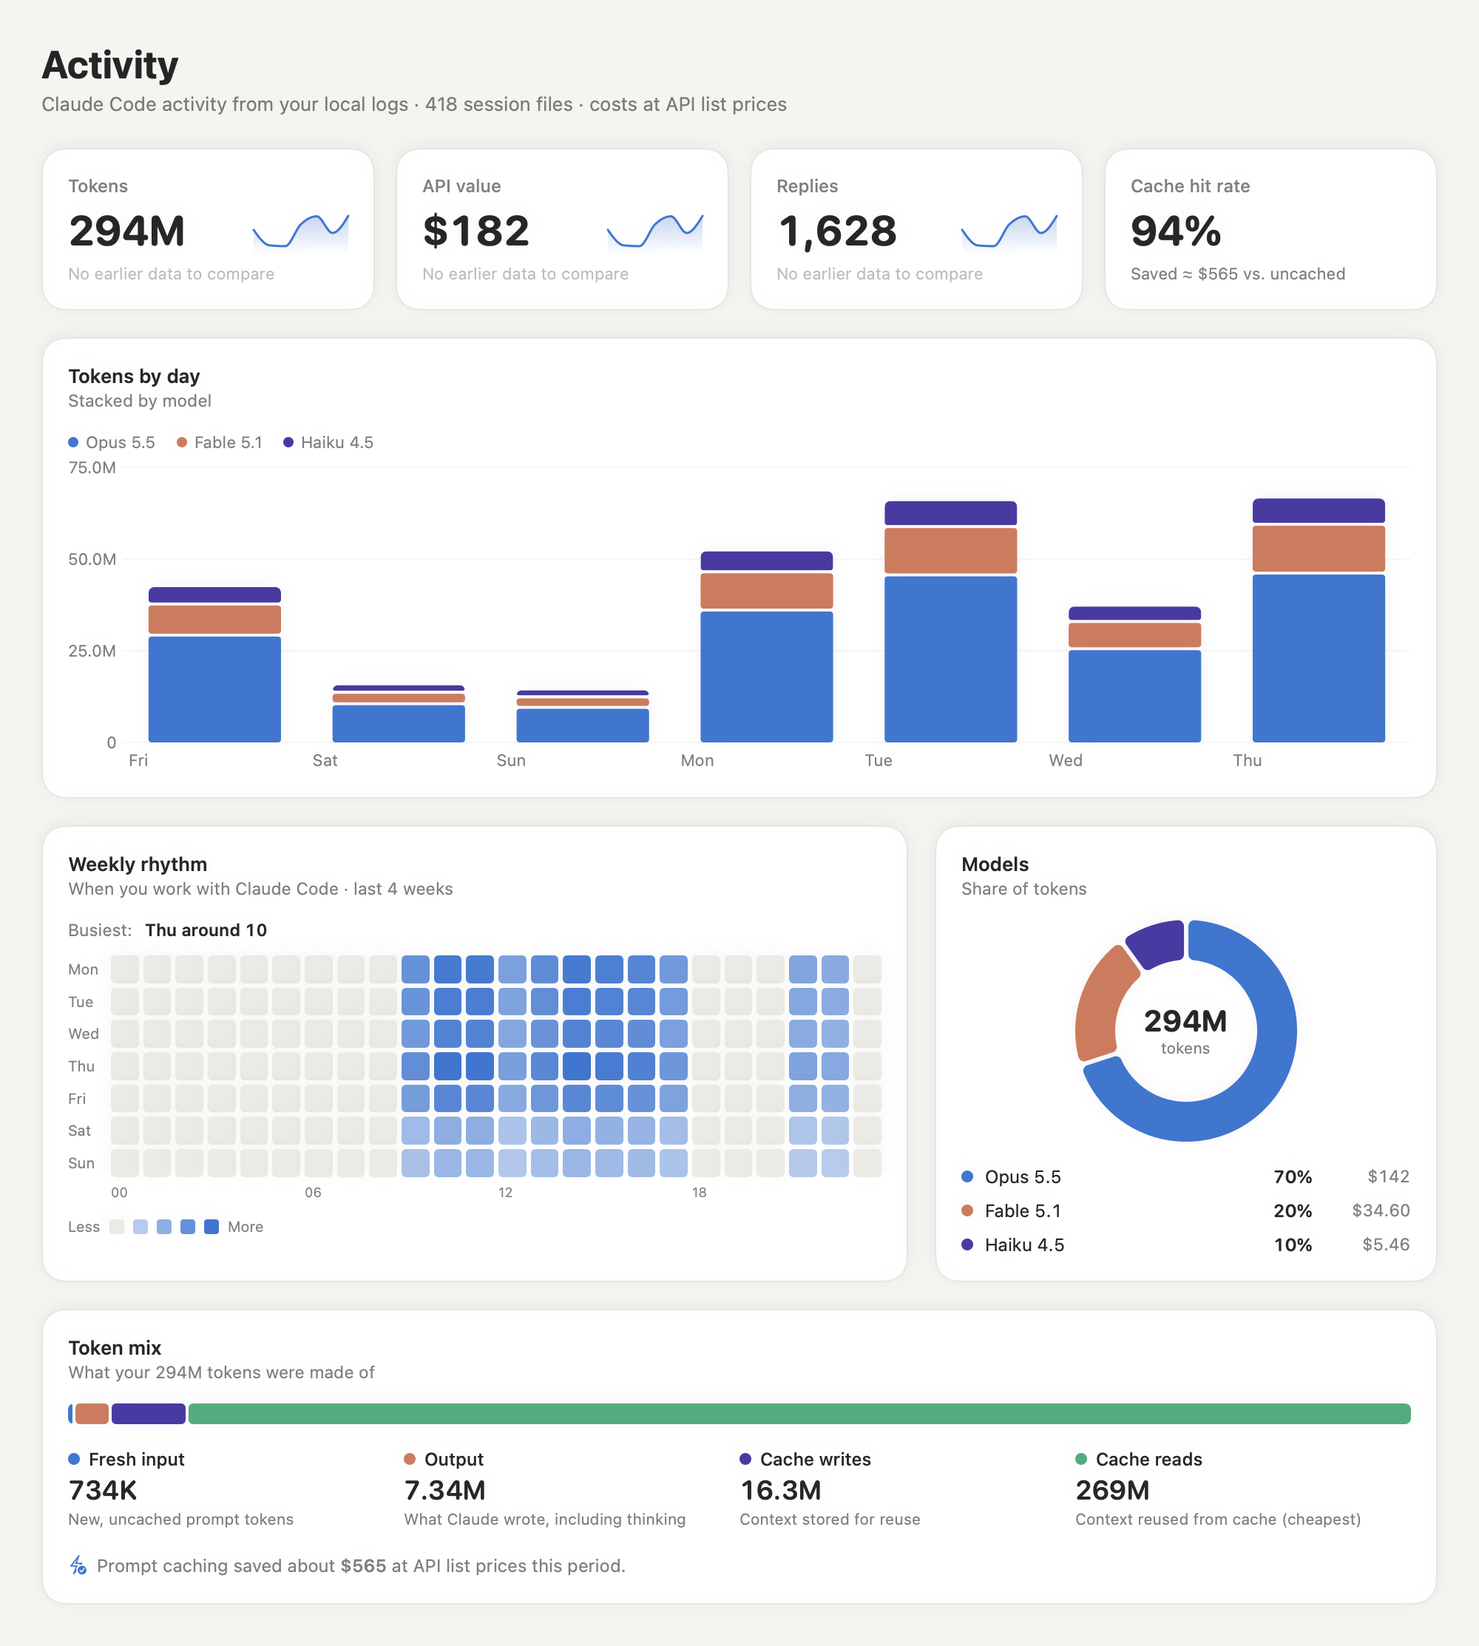
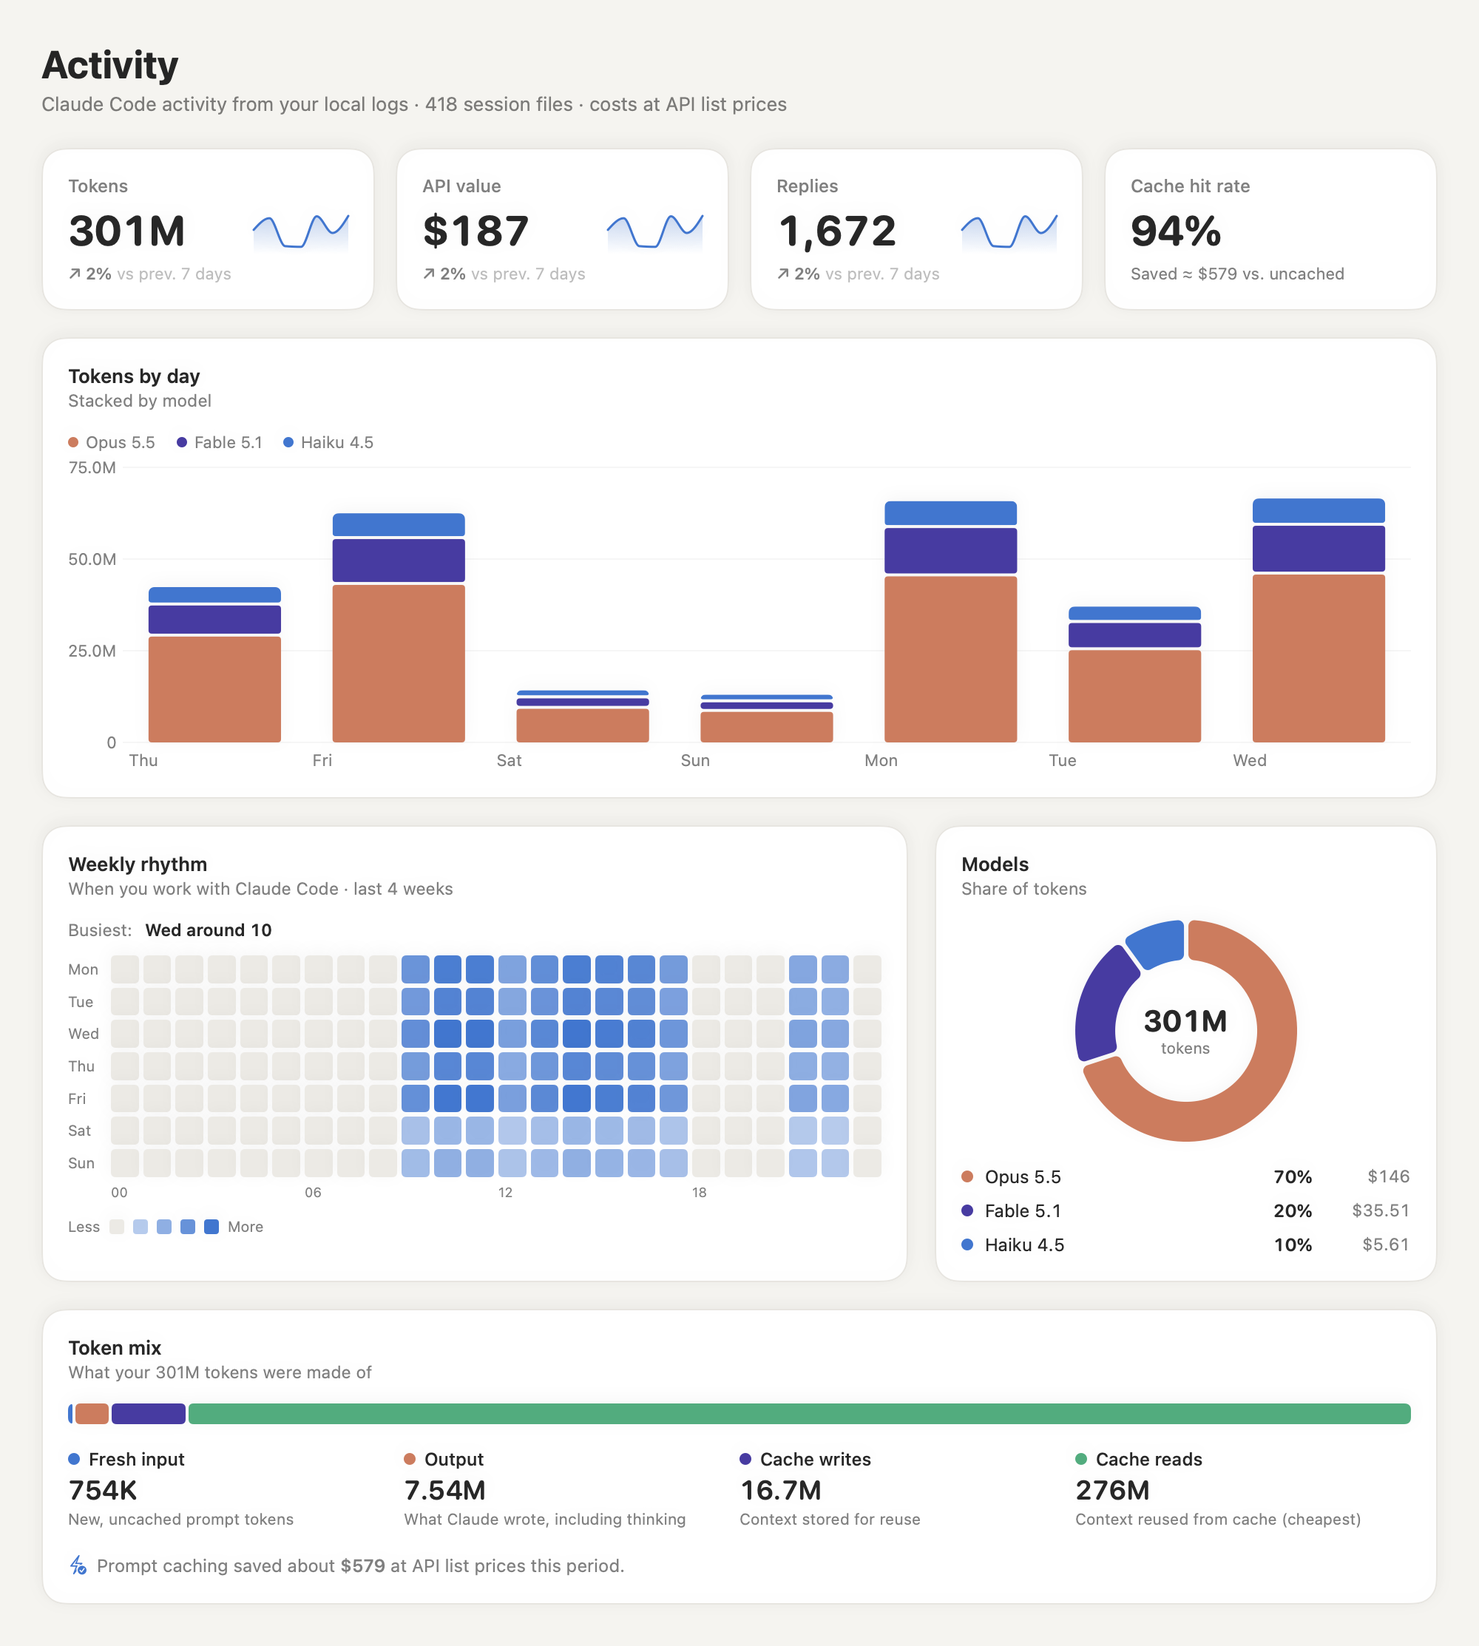
Show the signed-in Claude account in the Insights window (#5)
Reads the account Claude Code is signed in to from ~/.claude.json
(oauthAccount): no login, keychain or network, and never stored.

- Sidebar: an account card (initials avatar, name, email), the plan
  badge and the refresh status, each on its own line
- Settings: an Account section with name, email, plan and, for Team and
  Enterprise, the organization
- Plan badge in every mode: from the login in Direct mode, otherwise
  from the account info
- Re-read only when the file changes (checked every 10 s, parsed off
  the main thread); a failed read, e.g. mid-write, keeps the last value
- Shared Fmt.planName for plan display names
- Sample data now sets log coverage, so screenshots show deltas

diff --git a/App/UI/Insights/InsightsView.swift b/App/UI/Insights/InsightsView.swift
@@ -68,32 +68,72 @@ struct InsightsPageContent: View {
     }
 }
 
+/// The signed-in Claude account and refresh status, pinned to the bottom of the sidebar.
 private struct SidebarStatus: View {
     @Environment(AppModel.self) private var model
 
     var body: some View {
-        HStack(spacing: 10) {
-            AppMark(size: 28, spinning: model.isRefreshing)
-            VStack(alignment: .leading, spacing: 1) {
-                HStack(spacing: 5) {
-                    Text("Headroom").font(.system(size: 12, weight: .semibold))
-                    if let plan = model.limits.plan { PlanBadge(plan: plan) }
-                }
-                TimelineView(.periodic(from: .now, by: 5)) { context in
-                    let issue = model.limits.issue
-                    HStack(spacing: 4) {
-                        Circle()
-                            .fill(issue == nil ? Theme.good : issue!.isInformational ? Theme.neutral : Theme.warning)
-                            .frame(width: 6, height: 6)
-                        Text(issue == nil ? "Updated \(Fmt.ago(model.lastUpdated, now: context.date))"
-                             : issue!.isInformational ? "Waiting for Claude Code" : "Limits need attention")
+        VStack(alignment: .leading, spacing: 8) {
+            if let account = model.account {
+                HStack(spacing: 10) {
+                    AccountAvatar(account: account, size: 32)
+                    VStack(alignment: .leading, spacing: 1) {
+                        Text(account.title)
+                            .font(.system(size: 12, weight: .semibold))
+                            .lineLimit(1)
+                            .truncationMode(.middle)
+                        if let subtitle = account.subtitle {
+                            Text(subtitle)
+                                .font(.system(size: 10.5))
+                                .foregroundStyle(.secondary)
+                                .lineLimit(1)
+                                .truncationMode(.middle)
+                        }
                     }
-                    .font(.system(size: 10.5))
-                    .foregroundStyle(.secondary)
+                    Spacer(minLength: 0)
                 }
+                .help([account.name, account.email, account.organization].compactMap { $0 }.joined(separator: "\n"))
             }
-            Spacer(minLength: 0)
+
+            if let plan = model.planName { PlanBadge(plan: plan) }
+
+            TimelineView(.periodic(from: .now, by: 5)) { context in
+                let issue = model.limits.issue
+                HStack(spacing: 4) {
+                    Circle()
+                        .fill(issue == nil ? Theme.good : issue!.isInformational ? Theme.neutral : Theme.warning)
+                        .frame(width: 6, height: 6)
+                    Text(model.isRefreshing ? "Refreshing…"
+                         : issue == nil ? "Updated \(Fmt.ago(model.lastUpdated, now: context.date))"
+                         : issue!.isInformational ? "Waiting for Claude Code" : "Limits need attention")
+                        .lineLimit(1)
+                }
+                .font(.system(size: 10.5))
+                .foregroundStyle(.secondary)
+            }
         }
+    }
+}
+
+/// Initials on the brand gradient; a person icon when there are none.
+struct AccountAvatar: View {
+    var account: ClaudeAccount
+    var size: CGFloat
+
+    var body: some View {
+        ZStack {
+            Circle().fill(LinearGradient(colors: [Theme.brandLight, Theme.brandDeep], startPoint: .topLeading, endPoint: .bottomTrailing))
+            if !account.initials.isEmpty {
+                Text(account.initials)
+                    .font(.system(size: size * 0.38, weight: .semibold, design: .rounded))
+                    .foregroundStyle(.white)
+            } else {
+                Image(systemName: "person.fill")
+                    .font(.system(size: size * 0.42))
+                    .foregroundStyle(.white.opacity(0.9))
+            }
+        }
+        .frame(width: size, height: size)
     }
 }
 

diff --git a/App/Model/AppModel.swift b/App/Model/AppModel.swift
@@ -59,6 +59,8 @@ final class AppModel {
     /// Ticks every few seconds so countdowns and expired windows update without a refresh.
     private(set) var clock = Date()
     private(set) var bridgeState: StatusLineBridge.State = .notInstalled
+    /// The account Claude Code is signed in to (read locally; never stored).
+    private(set) var account: ClaudeAccount?
     var bridgeError: String?
 
     var limitsSource: LimitsSource? {
@@ -97,6 +99,7 @@ final class AppModel {
     @ObservationIgnored private var backoffUntil: Date?
     @ObservationIgnored private var pendingForcedRefresh = false
     @ObservationIgnored private var bridgeFileDate: Date?
+    @ObservationIgnored private var accountFileDate: Date?
     @ObservationIgnored private let isPreview: Bool
 
     init() {
@@ -109,6 +112,8 @@ final class AppModel {
         menuBarStyle = MenuBarStyle(rawValue: defaults.string(forKey: "menuBarStyle") ?? "") ?? .ringAndPercent
         launchAtLogin = SMAppService.mainApp.status == .enabled
         bridgeState = StatusLineBridge.state
+        account = try? AccountReader.read()
+        accountFileDate = AccountReader.lastModified
         updateModelColors()
         restartLoop()
         startTicker()
@@ -127,10 +132,11 @@ final class AppModel {
     }
 
     /// A static model for previews and screenshots; never touches the login, network or disk.
-    init(preview: UsageSnapshot, history: [LimitSample]) {
+    init(preview: UsageSnapshot, history: [LimitSample], account: ClaudeAccount? = nil) {
         isPreview = true
         snapshot = preview
         self.history = history
+        self.account = account
         limitsSource = .direct
         refreshInterval = 180
         menuBarStyle = .ringAndPercent
@@ -158,6 +164,7 @@ final class AppModel {
                 try? await Task.sleep(for: .seconds(10))
                 guard let self else { return }
                 self.clock = Date()
+                await self.reloadAccountIfChanged()
                 if self.limitsSource == .claudeCode, StatusLineBridge.lastModified != self.bridgeFileDate {
                     self.readBridge()
                     Store.save(self.snapshot, "snapshot.json")
@@ -175,6 +182,7 @@ final class AppModel {
         }
         isRefreshing = true
         async let local = scanner.scan()
+        await reloadAccountIfChanged()
         await refreshLimits(force: force)
         snapshot.local = await local
         updateModelColors()
@@ -205,6 +213,22 @@ final class AppModel {
             readBridge()
         case .direct:
             await fetchDirect(force: force)
+        }
+    }
+
+    // MARK: Account
+
+    /// Re-reads the signed-in account when Claude Code's config file changes (e.g. after `/login`).
+    /// Parsed off the main thread; a failed read (e.g. mid-write) keeps the last good value.
+    private func reloadAccountIfChanged() async {
+        let modified = AccountReader.lastModified
+        guard modified != accountFileDate else { return }
+        do {
+            let fresh = try await Task.detached(priority: .utility) { try AccountReader.read() }.value
+            accountFileDate = modified
+            if fresh != account { account = fresh }
+        } catch {
+            // Try again on the next tick.
         }
     }
 
@@ -358,6 +382,8 @@ final class AppModel {
     /// Plan limits as of now: windows whose reset time has passed show as reset.
     var limits: LimitsState { snapshot.limits.current(at: clock) }
     var needsSetup: Bool { limitsSource == nil }
+    /// From Claude Code's login in Direct mode, otherwise from its account info in ~/.claude.json.
+    var planName: String? { limits.plan ?? account?.plan }
 
     var summary: PeriodSummary? { snapshot.local?.summary(range) }
     var previousSummary: PeriodSummary? { snapshot.local?.summary(range, periodsAgo: 1) }

diff --git a/App/Services/Account.swift b/App/Services/Account.swift
@@ -1,0 +1,70 @@
+import Foundation
+
+/// The Claude account Claude Code is signed in to.
+struct ClaudeAccount: Equatable {
+    /// The name Claude shows (display name, else full name).
+    var name: String?
+    var fullName: String?
+    var email: String?
+    /// Only set for team and enterprise accounts; personal plans have an auto-named organization.
+    var organization: String?
+    /// e.g. "Max 5×".
+    var plan: String?
+
+    /// The main line: the name, or the email when there's no name.
+    var title: String { name ?? email ?? "" }
+    /// The second line: the email, when the title is a name.
+    var subtitle: String? { name != nil ? email : nil }
+
+    var initials: String {
+        let source = fullName ?? name ?? email.map { String($0.prefix { $0 != "@" }) } ?? ""
+        let words = source.split { $0.isWhitespace || $0 == "." }.prefix(2)
+        return words.compactMap { $0.first.map { String(String($0).uppercased().prefix(1)) } }.joined()
+    }
+}
+
+/// Reads the signed-in account from Claude Code's config (`~/.claude.json` → `oauthAccount`).
+/// A local file: no login, keychain or network involved. Nothing is stored by Headroom.
+enum AccountReader {
+    /// The account, or nil when Claude Code has none (not signed in, or signed in with an API key).
+    /// Throws when the file exists but can't be read or parsed — e.g. mid-write — so callers can keep
+    /// the last good value instead of flashing "signed out".
+    static func read() throws -> ClaudeAccount? {
+        guard FileManager.default.fileExists(atPath: configURL.path) else { return nil }
+        let data = try Data(contentsOf: configURL)
+        guard let root = try JSONSerialization.jsonObject(with: data) as? [String: Any] else {
+            throw CocoaError(.fileReadCorruptFile)
+        }
+        guard let account = root["oauthAccount"] as? [String: Any] else { return nil }
+
+        func string(_ key: String) -> String? {
+            (account[key] as? String)?.trimmingCharacters(in: .whitespacesAndNewlines).nilIfEmpty
+        }
+        let type = string("organizationType")
+        let isOrganization = type.map { $0.contains("team") || $0.contains("enterprise") } ?? false
+        let result = ClaudeAccount(
+            name: string("displayName") ?? string("fullName"),
+            fullName: string("fullName"),
+            email: string("emailAddress"),
+            organization: isOrganization ? string("organizationName") : nil,
+            plan: type.flatMap { Fmt.planName(type: $0, tier: string("organizationRateLimitTier")) })
+        return result.name == nil && result.email == nil ? nil : result
+    }
+
+    static var lastModified: Date? {
+        (try? FileManager.default.attributesOfItem(atPath: configURL.path))?[.modificationDate] as? Date
+    }
+
+    /// `$CLAUDE_CONFIG_DIR/.claude.json` when that exists, otherwise `~/.claude.json`.
+    private static var configURL: URL {
+        if let dir = ProcessInfo.processInfo.environment["CLAUDE_CONFIG_DIR"], !dir.isEmpty {
+            let url = URL(fileURLWithPath: dir).appendingPathComponent(".claude.json")
+            if FileManager.default.fileExists(atPath: url.path) { return url }
+        }
+        return FileManager.default.homeDirectoryForCurrentUser.appendingPathComponent(".claude.json")
+    }
+}
+
+private extension String {
+    var nilIfEmpty: String? { isEmpty ? nil : self }
+}

diff --git a/App/UI/Insights/SettingsPage.swift b/App/UI/Insights/SettingsPage.swift
@@ -7,6 +7,34 @@ struct SettingsPage: View {
         @Bindable var model = model
         Form {
             Section {
+                if let account = model.account {
+                    HStack(spacing: 12) {
+                        AccountAvatar(account: account, size: 36)
+                        VStack(alignment: .leading, spacing: 2) {
+                            Text(account.title).font(.system(size: 13, weight: .semibold))
+                            if let subtitle = account.subtitle {
+                                Text(subtitle).font(.system(size: 11.5)).foregroundStyle(.secondary)
+                            }
+                        }
+                        Spacer()
+                        if let plan = model.planName { PlanBadge(plan: plan) }
+                    }
+                    if let organization = account.organization {
+                        LabeledContent("Organization", value: organization)
+                    }
+                } else {
+                    Text("No Claude account found in Claude Code's settings. If you use Claude Code with an API key, there's no account to show.")
+                        .foregroundStyle(.secondary)
+                }
+            } header: {
+                Text("Account")
+            } footer: {
+                Text("The account Claude Code is signed in to, read from ~/.claude.json. To switch accounts, run /login in Claude Code.")
+                    .font(.system(size: 11))
+                    .foregroundStyle(.secondary)
+            }
+
+            Section {
                 Picker("Refresh every", selection: $model.refreshInterval) {
                     Text("1 minute").tag(60.0)
                     Text("3 minutes").tag(180.0)

diff --git a/App/UI/Components/Formatting.swift b/App/UI/Components/Formatting.swift
@@ -78,6 +78,18 @@ enum Fmt {
         return "\(days) days ago"
     }
 
+    /// Plan display name: ("max" or "claude_max", "default_claude_max_5x") → "Max 5×".
+    static func planName(type: String, tier: String?) -> String? {
+        var base = type.lowercased()
+        if base.hasPrefix("claude_") { base.removeFirst("claude_".count) }
+        guard !base.isEmpty else { return nil }
+        var name = base.replacingOccurrences(of: "_", with: " ").capitalized
+        if let tier = tier?.lowercased(), let r = tier.range(of: #"(\d+)x"#, options: .regularExpression) {
+            name += " " + tier[r].dropLast() + "×"
+        }
+        return name
+    }
+
     /// "claude-opus-5-5" → "Opus 5.5", "claude-sonnet-4-5-20250929" → "Sonnet 4.5", "claude-3-5-haiku-20241022" → "Haiku 3.5"
     static func modelName(_ id: String) -> String {
         let families = ["opus", "sonnet", "haiku", "fable", "mythos"]

diff --git a/App/Model/PreviewData.swift b/App/Model/PreviewData.swift
@@ -5,7 +5,8 @@ enum PreviewData {
     @MainActor
     static func model(now: Date = Date()) -> AppModel {
         let (snapshot, history) = make(now: now)
-        return AppModel(preview: snapshot, history: history)
+        let account = ClaudeAccount(name: "Alex Rivera", email: "alex@example.com", organization: nil, plan: "Max 20×")
+        return AppModel(preview: snapshot, history: history, account: account)
     }
 
     static func make(now: Date) -> (UsageSnapshot, [LimitSample]) {
@@ -74,7 +75,7 @@ enum PreviewData {
             if total == 0 { stat.models = [:]; stat.projects = [:] }
             return stat
         }
-        snapshot.local = LocalStats(days: days, scannedAt: now, filesScanned: 418)
+        snapshot.local = LocalStats(days: days, scannedAt: now, filesScanned: 418, coverageStart: days.first?.day)
         return (snapshot, history)
     }
 }

diff --git a/App/Services/Credentials.swift b/App/Services/Credentials.swift
@@ -10,12 +10,7 @@ struct ClaudeCredentials {
 
     /// "Max 20×", "Max 5×", "Pro", "Team"…
     var planName: String? {
-        guard let sub = subscriptionType?.lowercased(), !sub.isEmpty else { return nil }
-        var name = sub.capitalized
-        if let tier = rateLimitTier?.lowercased(), let r = tier.range(of: #"(\d+)x"#, options: .regularExpression) {
-            name += " " + tier[r].dropLast() + "×"
-        }
-        return name
+        subscriptionType.flatMap { Fmt.planName(type: $0, tier: rateLimitTier) }
     }
 }
 

diff --git a/App/UI/Insights/OverviewPage.swift b/App/UI/Insights/OverviewPage.swift
@@ -54,7 +54,7 @@ struct OverviewPage: View {
 
     private func headerSubtitle(now: Date) -> String {
         var parts: [String] = []
-        if let plan = model.limits.plan { parts.append("\(plan) plan") }
+        if let plan = model.planName { parts.append("\(plan) plan") }
         parts.append("updated \(Fmt.ago(model.lastUpdated, now: now))")
         return parts.joined(separator: " · ")
     }

diff --git a/App/UI/Menu/MenuPanel.swift b/App/UI/Menu/MenuPanel.swift
@@ -34,7 +34,7 @@ struct MenuPanel: View {
         HStack(spacing: 9) {
             AppMark(size: 22, spinning: model.isRefreshing)
             Text("Headroom").font(.system(size: 14, weight: .semibold))
-            if let plan = model.limits.plan {
+            if let plan = model.planName {
                 PlanBadge(plan: plan)
             }
             Spacer()

diff --git a/README.md b/README.md
@@ -35,7 +35,8 @@
 - **Overview:** limit rings; burn-down charts for the session and the week showing usage, an even-pace line and a forecast to the reset; how your week split across Claude products (Direct mode only).
 - **Activity** (Today / 7 days / 30 days): tokens, API-equivalent cost, replies and cache-hit rate, each with the change vs the previous period; tokens by day stacked by model; a weekday × hour heatmap; model share; token mix and what prompt caching saved.
 - **Projects:** your most active projects and a sortable table.
-- **Settings:** limits source, refresh interval, menu bar style, launch at login.
+- **Settings:** your account, limits source, refresh interval, menu bar style, launch at login.
+- **Account:** the sidebar shows which Claude account Claude Code is signed in to (name, email and plan; the organization too for Team and Enterprise).
 
 Works in light and dark mode. Chart colors come from a palette checked for colorblind readability, and warnings always show an icon and a label, not just a color.
 
@@ -106,6 +107,7 @@ security find-identity -v -p codesigning      # shows your certificate name and 
 - **Local stats** come from Claude Code's logs in `~/.claude/projects/**/*.jsonl` (also `~/.config/claude/projects`, and `$CLAUDE_CONFIG_DIR/projects` when Headroom is launched from a shell that has it set). They never leave your Mac.
 - **Network:** "Through Claude Code" makes no network requests. Direct mode sends one request per refresh to `api.anthropic.com`, with no cache and no redirects.
 - **Your login:** only Direct mode reads it. It's kept in memory only and never written to disk.
+- **Your account:** your name, email, plan and (for Team and Enterprise) organization are read from Claude Code's `~/.claude.json` (or `$CLAUDE_CONFIG_DIR/.claude.json`) to show who's signed in. They're never stored or sent anywhere.
 - **What's stored** in `~/Library/Application Support/Headroom/`:
 
   | File | Contains |
